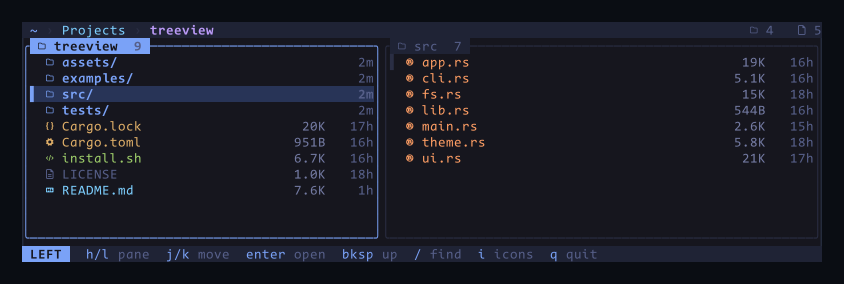
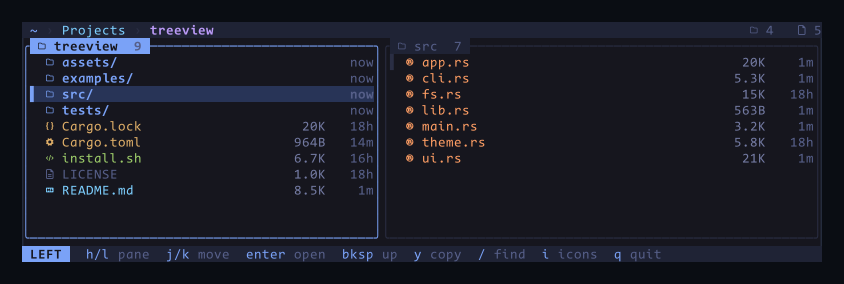
feat: y yanks the highlighted path via OSC 52
Works over SSH, adds no dependencies and no shell-outs. Left pane copies its
cursor; the right pane copies its own when it lists a directory, and falls back
to the left cursor when it is showing a file preview.

diff --git a/src/clipboard.rs b/src/clipboard.rs
@@ -1,0 +1,85 @@
+//! Putting a path on the user's clipboard.
+//!
+//! The clipboard write is an [OSC 52] escape sequence rather than a shell-out to
+//! `pbcopy` or `wl-copy`. That keeps the binary free of process spawns and
+//! platform branches, and — the reason it is worth the trade — it works over
+//! SSH, where a shell-out would write to the wrong machine's clipboard.
+//!
+//! Terminals may ignore the sequence (some ship with clipboard writes disabled),
+//! so the caller must not claim the path actually reached the clipboard.
+//!
+//! [OSC 52]: https://invisible-island.net/xterm/ctlseqs/ctlseqs.html#h3-Operating-System-Commands
+
+/// The 64 symbols of standard Base64, in encoding order.
[1 lines of base64/hex data omitted]
+
+/// The escape sequence that hands `text` to the terminal's clipboard.
+///
+/// `\x1b]52;c;…\x07` — OSC 52, target `c` (the clipboard rather than the
+/// primary selection), a Base64 payload, and BEL to terminate. BEL is used
+/// rather than ST because terminals that accept one accept it, and it is what
+/// tmux and neovim emit.
+pub fn osc52(text: &str) -> String {
+    let mut out = String::with_capacity(text.len().div_ceil(3) * 4 + 8);
+    out.push_str("\x1b]52;c;");
+    out.push_str(&base64(text.as_bytes()));
+    out.push('\x07');
+    out
+}
+
+/// Standard Base64 with padding, byte-oriented so non-UTF-8 paths survive.
+fn base64(bytes: &[u8]) -> String {
+    let mut out = String::with_capacity(bytes.len().div_ceil(3) * 4);
+    for chunk in bytes.chunks(3) {
+        let b1 = chunk.get(1).copied().unwrap_or(0);
+        let b2 = chunk.get(2).copied().unwrap_or(0);
+        let triple = (u32::from(chunk[0]) << 16) | (u32::from(b1) << 8) | u32::from(b2);
+        out.push(ALPHABET[(triple >> 18) as usize & 0x3f] as char);
+        out.push(ALPHABET[(triple >> 12) as usize & 0x3f] as char);
+        out.push(if chunk.len() > 1 {
+            ALPHABET[(triple >> 6) as usize & 0x3f] as char
+        } else {
+            '='
+        });
+        out.push(if chunk.len() > 2 {
+            ALPHABET[triple as usize & 0x3f] as char
+        } else {
+            '='
+        });
+    }
+    out
+}
+
+#[cfg(test)]
+mod tests {
+    use super::{base64, osc52};
+
+    #[test]
+    fn base64_matches_the_reference_vectors() {
+        // RFC 4648 §10.
+        assert_eq!(base64(b""), "");
+        assert_eq!(base64(b"f"), "Zg==");
+        assert_eq!(base64(b"fo"), "Zm8=");
+        assert_eq!(base64(b"foo"), "Zm9v");
+        assert_eq!(base64(b"foob"), "Zm9vYg==");
+        assert_eq!(base64(b"fooba"), "Zm9vYmE=");
+        assert_eq!(base64(b"foobar"), "Zm9vYmFy");
+    }
+
+    #[test]
+    fn base64_encodes_bytes_not_characters() {
+        // `é` is two bytes in UTF-8; a char-oriented encoder would emit one.
+        assert_eq!(base64("é".as_bytes()), "w6k=");
+        assert_eq!(base64("日本語".as_bytes()), "5pel5pys6Kqe");
+    }
+
+    #[test]
+    fn osc52_wraps_the_payload() {
+        assert_eq!(osc52("/tmp"), "\u{1b}]52;c;L3RtcA==\u{7}");
+    }
+
+    #[test]
+    fn osc52_handles_an_empty_path() {
+        assert_eq!(osc52(""), "\u{1b}]52;c;\u{7}");
+    }
+}

diff --git a/src/app.rs b/src/app.rs
@@ -238,6 +238,9 @@ pub struct App {
     pub icons: bool,
     /// Transient footer message.
     pub status: Option<String>,
+    /// Text waiting to be copied on the next frame: `main` reads it, writes the
+    /// OSC 52 sequence and clears it. Keeping it here leaves the renderer pure.
+    pub clipboard: Option<String>,
     /// Set when the user asked to exit.
     pub quit: bool,
 }
@@ -262,6 +265,7 @@ impl App {
             show_hidden: false,
             icons: true,
             status: None,
+            clipboard: None,
             quit: false,
         };
         app.refresh_right();
@@ -422,6 +426,7 @@ impl App {
                 });
             }
             KeyCode::Char('r') => self.reload(),
+            KeyCode::Char('y') => self.copy_path(),
             KeyCode::PageDown | KeyCode::Char('d') => self.scroll_preview(10),
             KeyCode::PageUp | KeyCode::Char('u') => self.scroll_preview(-10),
             _ => {}
@@ -548,6 +553,32 @@ impl App {
         self.left.reload(self.show_hidden);
         self.refresh_right();
         self.status = Some("reloaded".into());
+    }
+
+    /// The path `y` would copy: the cursor of the focused pane.
+    ///
+    /// A file preview has no rows of its own, so the selection of the left pane
+    /// is the answer there — it is the file being previewed.
+    #[must_use]
+    pub fn path_to_copy(&self) -> Option<PathBuf> {
+        match self.focus {
+            Focus::Left => self.left.selected().map(|entry| entry.path.clone()),
+            Focus::Right => match &self.right {
+                RightPane::Dir(browse) => browse.selected().map(|entry| entry.path.clone()),
+                RightPane::Info { .. } => self.left.selected().map(|entry| entry.path.clone()),
+            },
+        }
+    }
+
+    /// Hand the highlighted path to the clipboard.
+    fn copy_path(&mut self) {
+        let Some(path) = self.path_to_copy() else {
+            self.status = Some("nothing selected to copy".into());
+            return;
+        };
+        let path = path.display().to_string();
+        self.status = Some(format!("copied {path}"));
+        self.clipboard = Some(path);
     }
 
     fn scroll_preview(&mut self, delta: i32) {

diff --git a/tests/render.rs b/tests/render.rs
@@ -431,3 +431,62 @@ fn reveal_unhides_a_dotfile_it_was_asked_for() {
         Some(".secret")
     );
 }
+
+#[test]
+fn y_copies_the_path_under_the_left_cursor() {
+    let fixture = Fixture::new();
+    let mut app = App::new(fixture.path().to_path_buf());
+    // alpha/ is first, so the cursor already sits on a directory.
+    assert_eq!(app.path_to_copy(), Some(fixture.path().join("alpha")));
+
+    key(&mut app, KeyCode::Char('y'));
+    assert_eq!(
+        app.clipboard,
+        Some(fixture.path().join("alpha").display().to_string())
+    );
+    assert!(
+        app.status
+            .as_deref()
+            .is_some_and(|s| s.starts_with("copied ")),
+        "status should name the copied path: {:?}",
+        app.status
+    );
+}
+
+#[test]
+fn y_follows_the_right_pane_when_it_has_focus() {
+    let fixture = Fixture::new();
+    let mut app = App::new(fixture.path().to_path_buf());
+    key(&mut app, KeyCode::Char('l')); // focus the listing of alpha/
+    assert_eq!(app.focus, Focus::Right);
+
+    // First row of alpha/ is nested/; moving down reaches one.txt.
+    assert_eq!(
+        app.path_to_copy(),
+        Some(fixture.path().join("alpha/nested"))
+    );
+    key(&mut app, KeyCode::Char('j'));
+    assert_eq!(
+        app.path_to_copy(),
+        Some(fixture.path().join("alpha/one.txt"))
+    );
+}
+
+#[test]
+fn y_reports_an_empty_directory_instead_of_copying_nothing() {
+    let fixture = Fixture::new();
+    std::fs::create_dir(fixture.path().join("empty")).unwrap();
+    let mut app = App::new(fixture.path().to_path_buf());
+    for _ in 0..16 {
+        if app.left.selected().map(|e| e.name.as_str()) == Some("empty") {
+            break;
+        }
+        key(&mut app, KeyCode::Char('j'));
+    }
+    key(&mut app, KeyCode::Enter); // open the empty directory
+
+    assert_eq!(app.path_to_copy(), None);
+    key(&mut app, KeyCode::Char('y'));
+    assert_eq!(app.clipboard, None);
+    assert_eq!(app.status.as_deref(), Some("nothing selected to copy"));
+}

diff --git a/src/main.rs b/src/main.rs
@@ -1,4 +1,4 @@
-use std::io;
+use std::io::{self, Write};
 use std::process::ExitCode;
 use std::time::Duration;
 
@@ -71,6 +71,20 @@ fn run(start: Start) -> ExitCode {
     }
 }
 
+/// Emit any clipboard request the app queued this frame.
+///
+/// OSC 52 goes through the same writer ratatui draws with, so it cannot land in
+/// the middle of a half-written frame.
+fn copy_pending(terminal: &mut DefaultTerminal, app: &mut App) -> io::Result<()> {
+    let Some(text) = app.clipboard.take() else {
+        return Ok(());
+    };
+    terminal
+        .backend_mut()
+        .write_all(treeview::clipboard::osc52(&text).as_bytes())?;
+    terminal.backend_mut().flush()
+}
+
 fn event_loop(terminal: &mut DefaultTerminal, mut app: App) -> io::Result<()> {
     while !app.quit {
         terminal.draw(|frame| ui::draw(frame, &app))?;
@@ -82,6 +96,7 @@ fn event_loop(terminal: &mut DefaultTerminal, mut app: App) -> io::Result<()> {
             && key.kind == KeyEventKind::Press
         {
             app.handle_key(key.code, key.modifiers);
+            copy_pending(terminal, &mut app)?;
         }
     }
     Ok(())

diff --git a/src/ui.rs b/src/ui.rs
@@ -624,20 +624,21 @@ fn filtered_query(app: &App) -> Option<String> {
 fn hints(width: u16, icons: bool) -> Vec<Span<'static>> {
     // `width` is the space actually available to the left of the status text.
 
-    let all: [(&str, &str); 7] = [
+    let all: [(&str, &str); 8] = [
         ("h/l", "pane"),
         ("j/k", "move"),
         ("enter", "open"),
         ("bksp", "up"),
+        ("y", "copy"),
         ("/", "find"),
         ("i", if icons { "icons" } else { "ascii" }),
         ("q", "quit"),
     ];
     let keep = match width {
-        w if w >= 92 => all.len(),
-        w if w >= 76 => 6,
-        w if w >= 62 => 4,
-        w if w >= 50 => 3,
+        w if w >= 84 => all.len(),
+        w if w >= 76 => 7,
+        w if w >= 60 => 5,
+        w if w >= 42 => 3,
         _ => 1,
     };
     let mut spans = Vec::new();

diff --git a/src/cli.rs b/src/cli.rs
@@ -28,6 +28,7 @@ KEYS:
     esc       clear the filter, or quit
     .         toggle dotfiles
     r         reload
+    y         copy the highlighted path
     d / u     scroll a text preview
     i         toggle Nerd Font icons
     ctrl-c    quit

diff --git a/src/lib.rs b/src/lib.rs
@@ -13,6 +13,7 @@
 
 pub mod app;
 pub mod cli;
+pub mod clipboard;
 pub mod fs;
 pub mod theme;
 pub mod ui;

diff --git a/README.md b/README.md
@@ -31,6 +31,9 @@
   bytes into your terminal.
 - **Filter as you type.** `/` narrows the focused pane live; `enter` keeps the
   filter, `esc` brings the full list back.
+- **Yank a path.** `y` copies the highlighted path, in either pane. It goes out
+  as an OSC 52 sequence rather than through `pbcopy` or `wl-copy`, so it works
+  over SSH too.
 - **Colour by file type.** A per-extension palette and Nerd Font icons. Press
   `i` for a plain ASCII layout on terminals without the font.
 - **Read-only by design.** It never writes, moves, renames or deletes, and it
@@ -95,6 +98,7 @@ Vim keys, with the arrow keys working wherever `h` `j` `k` `l` do.
 | `esc` | clear a filter, or quit when there is none |
 | `.` | toggle dotfiles |
 | `r` | reload both panes |
+| `y` | copy the highlighted path to the clipboard |
 | `d` / `u`, `PgDn` / `PgUp` | scroll a text preview |
 | `i` | toggle Nerd Font icons / plain ASCII |
 | `q` | quit |
